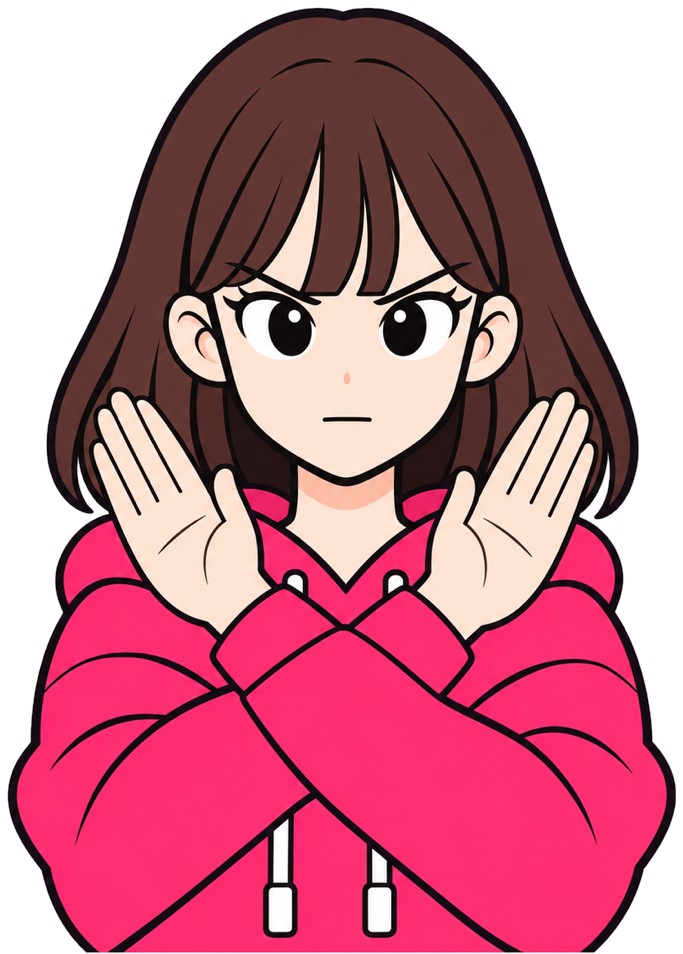
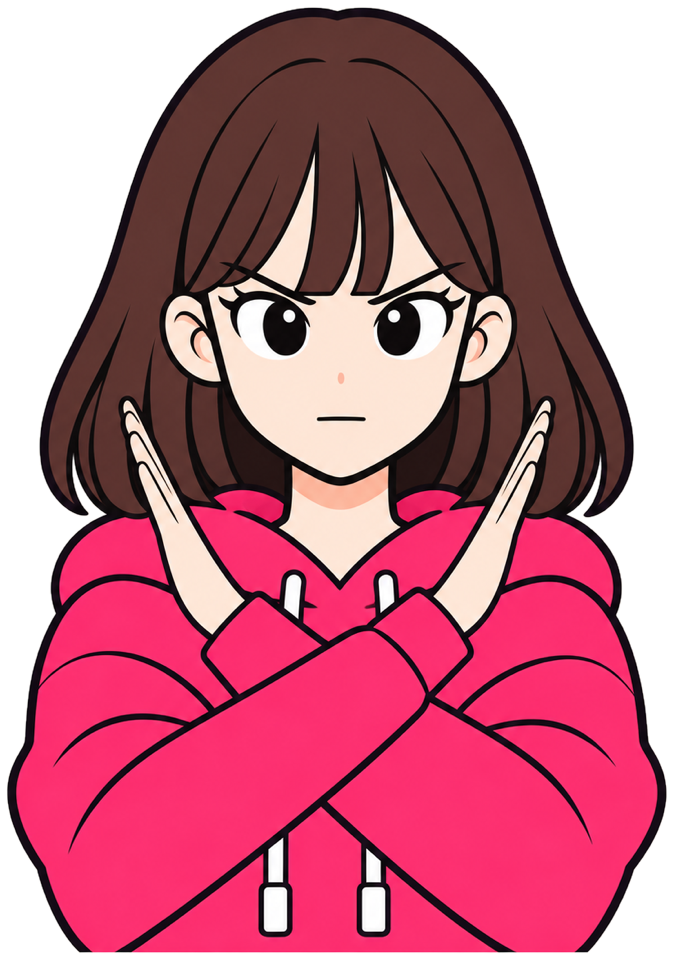
docs(presentation): X 자세 하린을 손날이 보이게 다시 그림 #ISE-310

diff --git a/docs/presentation/brand/harin/README.md b/docs/presentation/brand/harin/README.md
@@ -24,15 +24,15 @@
 | bust-tense, bust-focus, bust-dejected, bust-joy, bust-panic, bust-relief, bust-surprise | 표정별 반신. `bust-focus`는 영상용으로 다시 그린 판 |
 | jump, jump-fists | 점프(`jump-fists`는 주먹을 쥔 판) |
 | thumbs | 엄지척 |
-| cross-x, thinking | 손바닥을 편 채 손목을 교차해 X를 그린 상반신, 턱에 손을 댄 고민 상반신(11/18 발표 덱 v4의 "AI 판단 · 거부/부분 수용" 장) |
+| cross-x, thinking | 손날이 보이게 편 손을 손목에서 교차해 X를 그린 상반신, 턱에 손을 댄 고민 상반신(11/18 발표 덱 v4의 "AI 판단 · 거부/부분 수용" 장) |
 
 ## poses: 발표 덱용 반신 (1024×1024, 11/18)
 
-발표 덱 v4에서 AI 제안을 거부한 장과 부분 수용한 장에 넣으려고 그렸다. 첫 판(허리까지, X는 주먹)을 사용자 요청으로 안도한 반신(`bust-relief`)처럼 상체 절반만 나오게, X는 손을 펴게 다시 그렸다. 인물 시트 두 장, `bust-relief`, 첫 판을 참조로 codex CLI 기본 이미지 생성으로 만들었고, 실제 프롬프트는 [2026-11-18-prompts.md](poses/2026-11-18-prompts.md)에 있다. 오려 낸 판은 `cutouts/`의 cross-x, thinking이다.
+발표 덱 v4에서 AI 제안을 거부한 장과 부분 수용한 장에 넣으려고 그렸다. 첫 판(허리까지, X는 주먹)을 사용자 요청으로 안도한 반신(`bust-relief`)처럼 상체 절반만 나오게, X는 손을 펴게 다시 그렸다. X는 손바닥이 보이고 좌우 손이 뒤바뀌어, 손날이 보이게 한 번 더 그렸다. 인물 시트 두 장, `bust-relief`, 첫 판을 참조로 codex CLI 기본 이미지 생성으로 만들었고, 실제 프롬프트는 [2026-11-18-prompts.md](poses/2026-11-18-prompts.md)에 있다. 오려 낸 판은 `cutouts/`의 cross-x, thinking이다.
 
 | 파일 | 내용 |
 |---|---|
-| [harin-cross-x.webp](poses/harin-cross-x.webp) | 손바닥을 편 채 손목을 가슴 앞에서 교차해 X를 그린 상반신, 단호한 표정 |
+| [harin-cross-x.webp](poses/harin-cross-x.webp) | 칼손처럼 편 손을 손목에서 교차해 X를 그린 상반신. 손날이 앞을 보고, 오른손은 왼쪽 어깨, 왼손은 오른쪽 어깨 쪽 |
 | [harin-thinking.webp](poses/harin-thinking.webp) | 오른손을 턱에 대고 고개를 기울인 고민 상반신 |
 
 ## keys: 장면 그림 (1536×1024)

diff --git a/docs/ai-judgments/junhyun/daily/2026-11-18.md b/docs/ai-judgments/junhyun/daily/2026-11-18.md
@@ -10,3 +10,4 @@
 - [부분 수용] 발표 덱 v4 표지에서 AI가 날짜 옆에 둔 튜터 칩과 원본의 팀원별 역할 줄 대신, 팀원 이름만 한 줄로 두고 그 아래에 "엄성문 튜터님" 칩을 두게 했다 — 근거: "첫장에 팀원리스트는 이름만 남겨주고, 튜터 엄성문 튜터님 까지 추가해줘" (Claude Code)
 - [부분 수용] AI가 Mermaid 자동 배치로 그린 ERD 두 장은 쓰되 가독성이 낮다고 보고 다시 그리게 했다. 표 자리를 직접 정하고 핵심 컬럼만 큰 글자로 남긴 판에 설계 의도 5가지를 번호로 이어 붙였다 — 근거: "ERD 더 가독성 좋게 다시 그려주고, 설계 의도도 간단히 넣어줘" (Claude Code)
 - [부분 수용] AI가 새로 그린 하린 두 장(X, 고민)은 쓰되 X는 주먹 대신 손을 펴고, 둘 다 안도한 하린처럼 상체 절반만 나오게 다시 그리게 했다 — 근거: "x 자할때 손 펴도록 해주고, 최근에 새로 그린 두 하린을 안도한 하린처럼 상체 절반정도만 나오게" (codex CLI 이미지 생성 + Claude Code)
+- [거부] AI(codex 이미지 생성)가 다시 그린 X 자세 하린은 손바닥이 앞을 보고 왼손·오른손이 뒤바뀌어 있어 받지 않았다. 손날이 보이는 칼손으로, 오른손은 왼쪽 어깨·왼손은 오른쪽 어깨로 가도록 지정해 다시 그리게 했다 — 근거: "손 날 부분이 보이게 해줘! 지금은 왼손 오른손도 바꼈어" (codex CLI 이미지 생성 + Claude Code)

diff --git a/docs/presentation/brand/harin/poses/2026-11-18-prompts.md b/docs/presentation/brand/harin/poses/2026-11-18-prompts.md
@@ -21,3 +21,6 @@ Style: clean vector-like flat 2D motion-graphics illustration, smooth dark-ink (
 Pose: match prev-thinking.png exactly: her right index finger and thumb rest thoughtfully on her chin, with the complete chin hand visible; eyes glance upward and to the side, head slightly tilted, one eyebrow raised, small open mouth. Her left arm supports her right elbow; the supporting left arm may be cropped by the bottom edge. Raise/support the gesture naturally to fit the close bust framing, keeping the chin hand completely inside the image. No waist, pocket, hem or jeans. Produce only this one image.
 ```
 
+
+## harin-cross-x-bust.png (11/18 3차: 손날이 보이게, 손 좌우 바로잡음)
+
